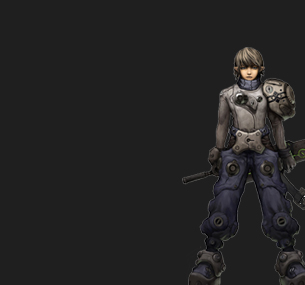
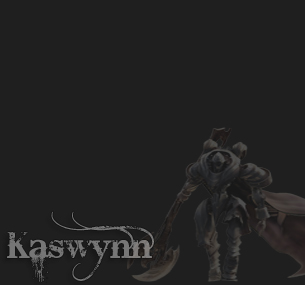
Graphical Update Test #1

diff --git a/diskw/www/rf/servers.htm b/diskw/www/rf/servers.htm
@@ -5,19 +5,13 @@
 <meta name="description" content="Affordable fast reliable hosting, 99.9% uptime, fast servers, Server Tutorials, Private Servers, Dual Xeon Server, Dual Opteron Servers, P4 Servers, Dual Core Servers and more!">
 <meta name="keywords" content="free servers, free server design, free server host, server tutorials, graphics, server design, fun servers , server software, server hosting, web server, web server hosting, server domains, cheap servers, server, dedicated server, dedicated servers, cheap server hosting"></head>
 <body leftmargin="0" topmargin="0" bgcolor="#1f1f1f" marginheight="0" marginwidth="0">
-<center><font color="white" face=Arial Narrow size=1>Vote for RF Winter server, click the links!<br>
+<center><font color="white" face=Arial Narrow size=1>Kaswynn Repack Configured by: evilgenx</a>, 
+and deadalliance. <br>
 <table>
 <tr>
 <td>
-<a href="Edit the link" target="_blank"><img src="http://127.0.0.1/rfweb/votenew.jpg" frameborder="0" border="0"></a>
-</td>
-<td>
-<!-- Begin Gamesitestop100 voting code -->
-<a href="Edit the link" title="RF Online" target="_blank"> <img src="http://127.0.0.1/rfweb/votebutton.jpg" border="0" alt="Top 100 RF Online sites\"/></a>
-<!-- End Gamesitestop100 voting code -->
-</td>
-<td>
-<!--Begin GameSites200 Vote--><p><a href="Edit the link" title="RF Online" target="_blank"><img src="http://127.0.0.1/rfweb/vote.gif" alt="Vote on the MMORPG / MPOG Top 200" border="0"></a><br><a href="Edit the link"><img src="http://www.gamesites200.com/track.gif" alt="MMORPG / MPOG Top 200 - Free and Paid Online Games" border="0"></a></p><!--End Game Sites 200 Code-->
+<!--Begin GameSites200 Vote--><p>
+<img border="0" src="kaswynn.gif" width="275" height="68"><br><a href="Edit the link"><img src="http://www.gamesites200.com/track.gif" alt="MMORPG / MPOG Top 200 - Free and Paid Online Games" border="0"></a></p><!--End Game Sites 200 Code-->
 </td>
 </tr>
 </table></center>

diff --git a/diskw/www/rf/List_files/index.php b/diskw/www/rf/List_files/index.php
@@ -2,7 +2,7 @@
 <style type="text/css">
 <!--
 body {
-	background-color: #1F1F1F;
+	background-color: #000000;
 }
 -->
 </style>
@@ -41,7 +41,8 @@ document.oncontextmenu=menu;
 document.onmouseup=finish;
 -->
 </script>
-<meta http-equiv="Content-Type" content="text/html; charset=iso-8859-1"></head><body topmargin="0" leftmargin="0" bottommargin="0" rightmargin="0" scroll="no" text="#a0a0a0">
+<meta http-equiv="Content-Type" content="text/html; charset=iso-8859-1"></head>
+<body topmargin="0" leftmargin="0" bottommargin="0" rightmargin="0" scroll="no" text="#a0a0a0" style="background-color: #A0A0A0">
 <div id="menu" style="position: absolute; visibility: hidden;"></div>
 <table border="0" cellpadding="0" cellspacing="0" height="285" width="305">
   <tbody><tr>
@@ -53,9 +54,9 @@ document.onmouseup=finish;
                 <tbody><tr>
 				  <td align="left" valign="middle"><div align="left">
 
-                                  <a href="http://www.RF-Winter.Tk/" target="_blank"><img src="index_data/site_web.jpg" onmouseover="this.src='site_web_hover.jpg'" onmouseout="this.src='site_web.jpg'" border="0"></a>&nbsp;
+                                  <a href="http://127.0.0.1/" target="_blank"><img src="index_data/site_web.jpg" onmouseover="this.src='site_web_hover.jpg'" onmouseout="this.src='site_web.jpg'" border="0"></a>&nbsp;
                                   
-                                  <a href="http://www.RF-Winter-My-Forum.Tk/" target="_blank"><img src="index_data/forum.jpg" onmouseover="this.src='forum_hover.jpg'" onmouseout="this.src='forum.jpg'" border="0"></a>&nbsp;
+                                  <a href="http://http://www.gamehaze.com/forum/f352/" target="_blank"><img src="index_data/forum.jpg" onmouseover="this.src='forum_hover.jpg'" onmouseout="this.src='forum.jpg'" border="0"></a>&nbsp;
 
                                   <a href="http://127.0.0.1/register.php"><img src="index_data/register.jpg" onmouseover="this.src='register_hover.jpg'" onmouseout="this.src='register.jpg'" border="0"></a>&nbsp;
 
@@ -74,13 +75,10 @@ $LTotalConnecte = substr($TotalConnecte,8,15);
 		//Server Status Check Kurayami Corp.
 		$serverip = "127.0.0.1";
 
-		echo "<body bgcolor=#1F1F1F><b><font size=-1 color=#7b7b7b>";
+		echo "<body bgcolor=#000000><b><font size=-1 color=#7b7b7b>";
 		echo "Login: " . statuscheck($serverip, "10001");
 		echo "&nbsp&nbsp&nbsp Server: " . statuscheck($serverip, "27780");
                 echo "</size>";   
-                echo "<body bgcolor=#1F1F1F><b><font size=-1 color=yellow>";
-                echo "&nbsp&nbsp&nbsp&nbsp&nbsp&nbsp&nbsp&nbsp&nbsp&nbsp&nbsp&nbsp&nbsp&nbsp&nbsp&nbsp&nbsp&nbsp&nbsp&nbsp&nbsp&nbsp&nbsp&nbsp&nbsp&nbsp&nbsp&nbsp&nbsp&nbsp&nbsp&nbsp&nbsp&nbsp&nbsp&nbsp ";
-                echo "&nbsp Total Players: " . $LTotalConnecte . statuscheck($serverip, "10001");  
                 echo "</size>";
 
 ?>
@@ -101,13 +99,14 @@ a:hover{
 	color: #ffffff;
 }	
 -->
-</style></head><body leftmargin="0" topmargin="0" bgcolor="#1f1f1f" marginheight="0" marginwidth="0">
+</style></head><body leftmargin="0" topmargin="0" bgcolor="#FFFFFF" marginheight="0" marginwidth="0" style="background-color: #A0A0A0">
 <table border="0" cellpadding="3" cellspacing="0" width="315">
   <tbody><tr><td valign="top" width="309">
-<br>[3/16/07] Crafting & english patch released</a>
-<br>[3/16/07] Dont use Auto Action & Auto Chat is still Bugs</a>
-<br>[3/15/07] RF Winter Giga 4 Server opening for beta test</a>
-<br>Powerd by: Bestwar-X Configure by: NelFox</a>
+<br>[02/07/08] Rev2 update released.</a>
+<br>[02/06/08] Rev1 update released.</a>
+<br>[02/01/08] Guide released for Repack.</a>
+<br>[01/31/08] Initial Release of the Kaswynn Repack!</a>
+<br>
 
 <br>
       </td>
